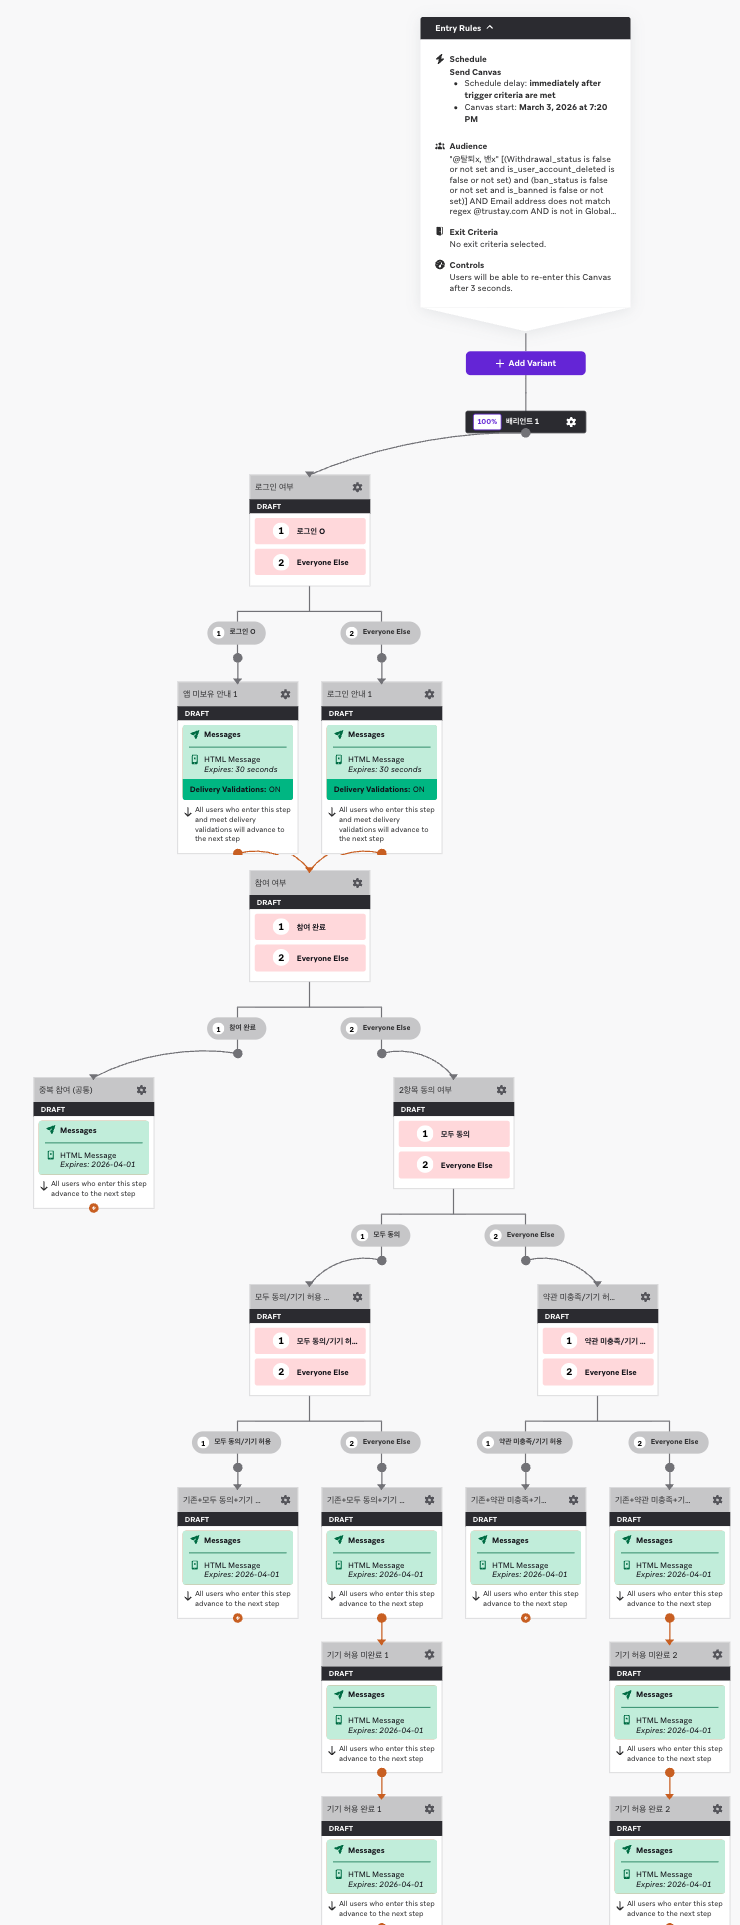
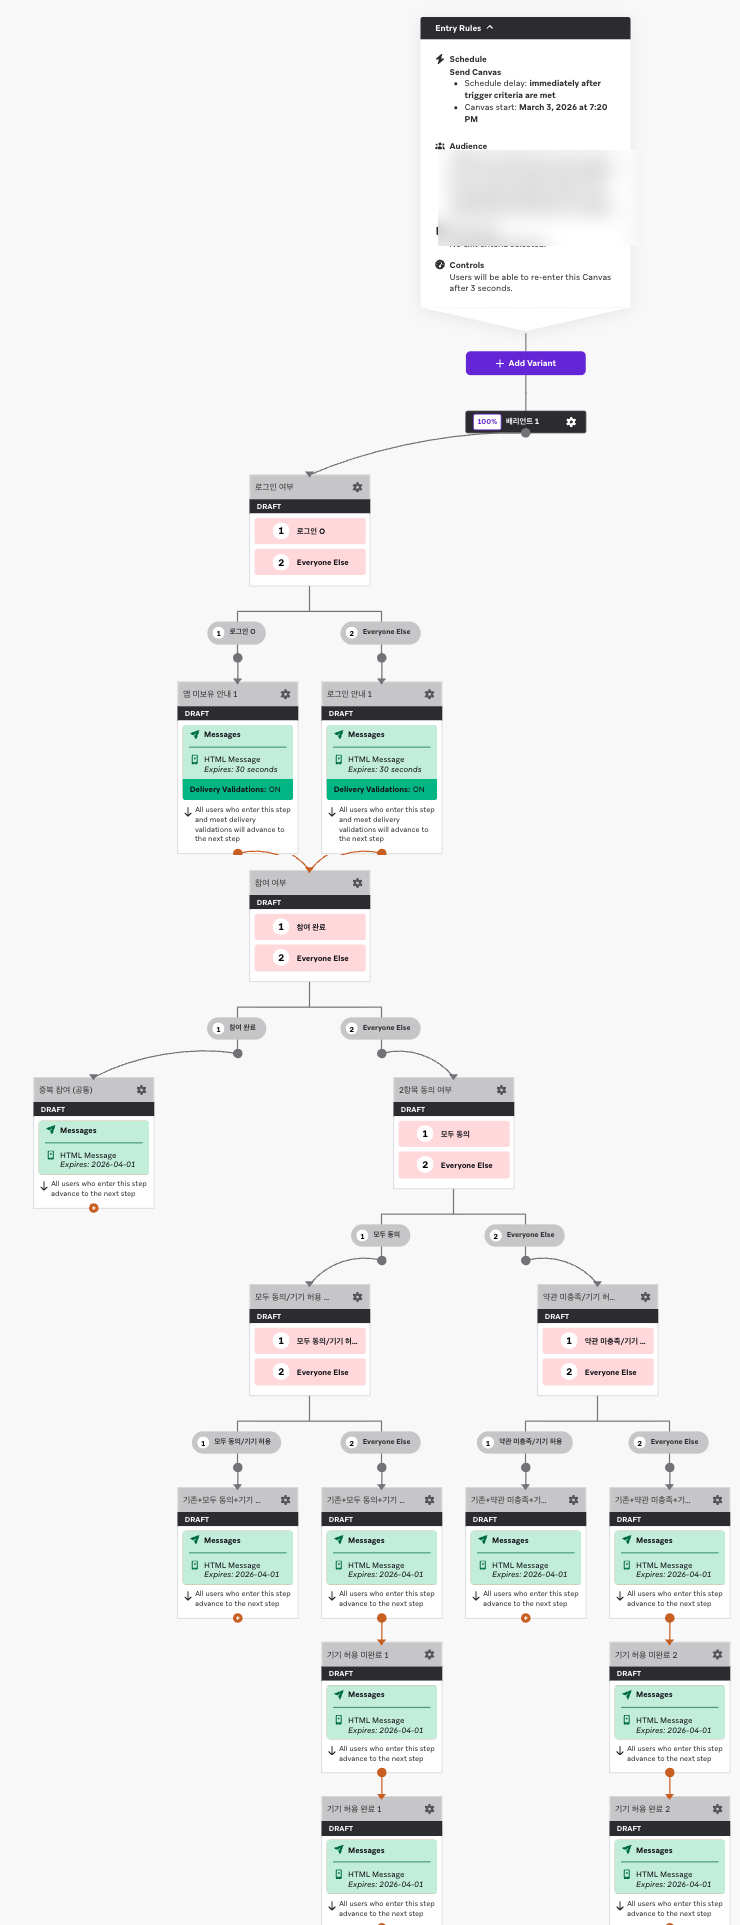
tweak(iam-modal): canvas figure — capped scroll box, click-to-full, blur audience targeting
- canvas.png: blur Entry Rules Audience expression (internal targeting/@user redacted)
- figure -> .canvas-embed scroll box (max-height 520) + click frame/link to full size
- KO+EN; cache-bust v4; remove stray 'tier' from EN alt

Changed region(s): [[0.5905, 0.0623, 0.8392, 0.1247]]

diff --git a/articles/braze/iam-modal/en/index.html b/articles/braze/iam-modal/en/index.html
@@ -649,9 +649,9 @@ function logParticipation(prize){
 <text x="370" y="562" text-anchor="middle" dominant-baseline="central" fill="#FFFFFF" font-size="13" font-weight="500">Follow-up messages by result (reminder · win notice)</text>
 </svg>
 <figcaption>Canvas branching diagram — login/app-ownership → participation status → variant sent per consent×device-allow combination.</figcaption></figure>
-  <figure class="img">
-    <a href="../artifacts/canvas.png?v=3" target="_blank" rel="noopener"><img src="../artifacts/canvas.png?v=3" alt="The actual Braze Canvas — login, tier, participation, consent/device-allow branching" loading="lazy"/></a>
-    <figcaption>The actual Braze Canvas — login status → participation status → HTML messages branching by the consent × device-permission combination (Korean console UI). Click to open full size.</figcaption>
+  <figure class="img canvas-embed">
+    <a class="canvas-frame" href="../artifacts/canvas.png?v=4" target="_blank" rel="noopener"><img src="../artifacts/canvas.png?v=4" alt="The actual Braze Canvas — login, participation, consent/device-permission branching" loading="lazy"/></a>
+    <figcaption>The actual Braze Canvas — login status → participation status → HTML messages branching by the consent × device-permission combination (Korean console UI). <a href="../artifacts/canvas.png?v=4" target="_blank" rel="noopener">↗ Open full size</a></figcaption>
   </figure>
 
   <p>One design principle emerges here. <strong>Conditions already fixed before the user sees the modal (participation history, the send-time consent/permission state) are split in Canvas and segments, while conditions that can change while viewing the modal (push permission) are re-checked in real time inside the HTML via brazeBridge.</strong> Liquid values are a snapshot from send time, so they can't keep up with cases where the user changes a setting inside the modal and comes back.</p>

diff --git a/articles/braze/iam-modal/index.html b/articles/braze/iam-modal/index.html
@@ -649,9 +649,9 @@ function logParticipation(prize){
 <text x="370" y="562" text-anchor="middle" dominant-baseline="central" fill="#FFFFFF" font-size="13" font-weight="500">참여 결과별 후속 메시지 (리마인드·당첨 안내)</text>
 </svg>
 <figcaption>Canvas 분기도 — 로그인/앱 보유 → 참여 여부 → 동의×기기 허용 조합별 변형 발송.</figcaption></figure>
-  <figure class="img">
-    <a href="artifacts/canvas.png?v=3" target="_blank" rel="noopener"><img src="artifacts/canvas.png?v=3" alt="실제 Braze Canvas — 로그인 여부·참여 여부·동의/기기 허용 조합 분기" loading="lazy"/></a>
-    <figcaption>실제 Braze Canvas 화면 — 로그인 여부 → 참여 여부 → 2항목 동의 × 기기 허용 상태 조합별로 HTML 메시지가 분기된다. 클릭하면 원본 크기로 열린다.</figcaption>
+  <figure class="img canvas-embed">
+    <a class="canvas-frame" href="artifacts/canvas.png?v=4" target="_blank" rel="noopener"><img src="artifacts/canvas.png?v=4" alt="실제 Braze Canvas — 로그인 여부·참여 여부·동의/기기 허용 조합 분기" loading="lazy"/></a>
+    <figcaption>실제 Braze Canvas 화면 — 로그인 여부 → 참여 여부 → 2항목 동의 × 기기 허용 상태 조합별로 HTML 메시지가 분기된다. <a href="artifacts/canvas.png?v=4" target="_blank" rel="noopener">↗ 원본 크게 보기</a></figcaption>
   </figure>
 
   <p>여기서 설계 원칙이 하나 나온다. <strong>유저가 모달을 보기 전에 이미 정해져 있는 조건(참여 이력, 발송 시점의 동의·권한 상태)은 Canvas와 세그먼트에서 가르고, 모달을 보는 도중 변할 수 있는 조건(푸시 권한)은 HTML 안에서 brazeBridge로 실시간 재확인한다.</strong> Liquid 값은 발송 시점의 스냅샷이라, 유저가 모달 안에서 설정을 바꾸고 돌아오는 경우를 따라가지 못하기 때문이다.</p>

diff --git a/articles/assets/article.css b/articles/assets/article.css
@@ -120,6 +120,10 @@ blockquote cite{display:block;margin-top:8px;font-family:var(--mono);font-size:1
 figure.img{margin:8px 0 6px}
 figure.img img{width:100%;height:auto;display:block;border:1px solid var(--line);border-radius:12px}
 figure.img figcaption{font-family:var(--mono);font-size:11.5px;color:var(--faint);margin-top:10px;text-align:center;line-height:1.5}
+/* canvas screenshot: capped scroll box, click frame -> full size */
+figure.canvas-embed .canvas-frame{display:block;max-height:520px;overflow-y:auto;border:1px solid var(--line);border-radius:12px;-webkit-overflow-scrolling:touch}
+figure.canvas-embed img{display:block;width:100%;border:0;border-radius:0}
+figure.canvas-embed figcaption a{color:var(--accent);font-weight:600;text-decoration:none;border-bottom:1px solid var(--accent-border);white-space:nowrap}
 
 /* ── Artifact preview card (clickable → full doc, new tab) ── */
 figure.artifact{margin:14px 0 6px}